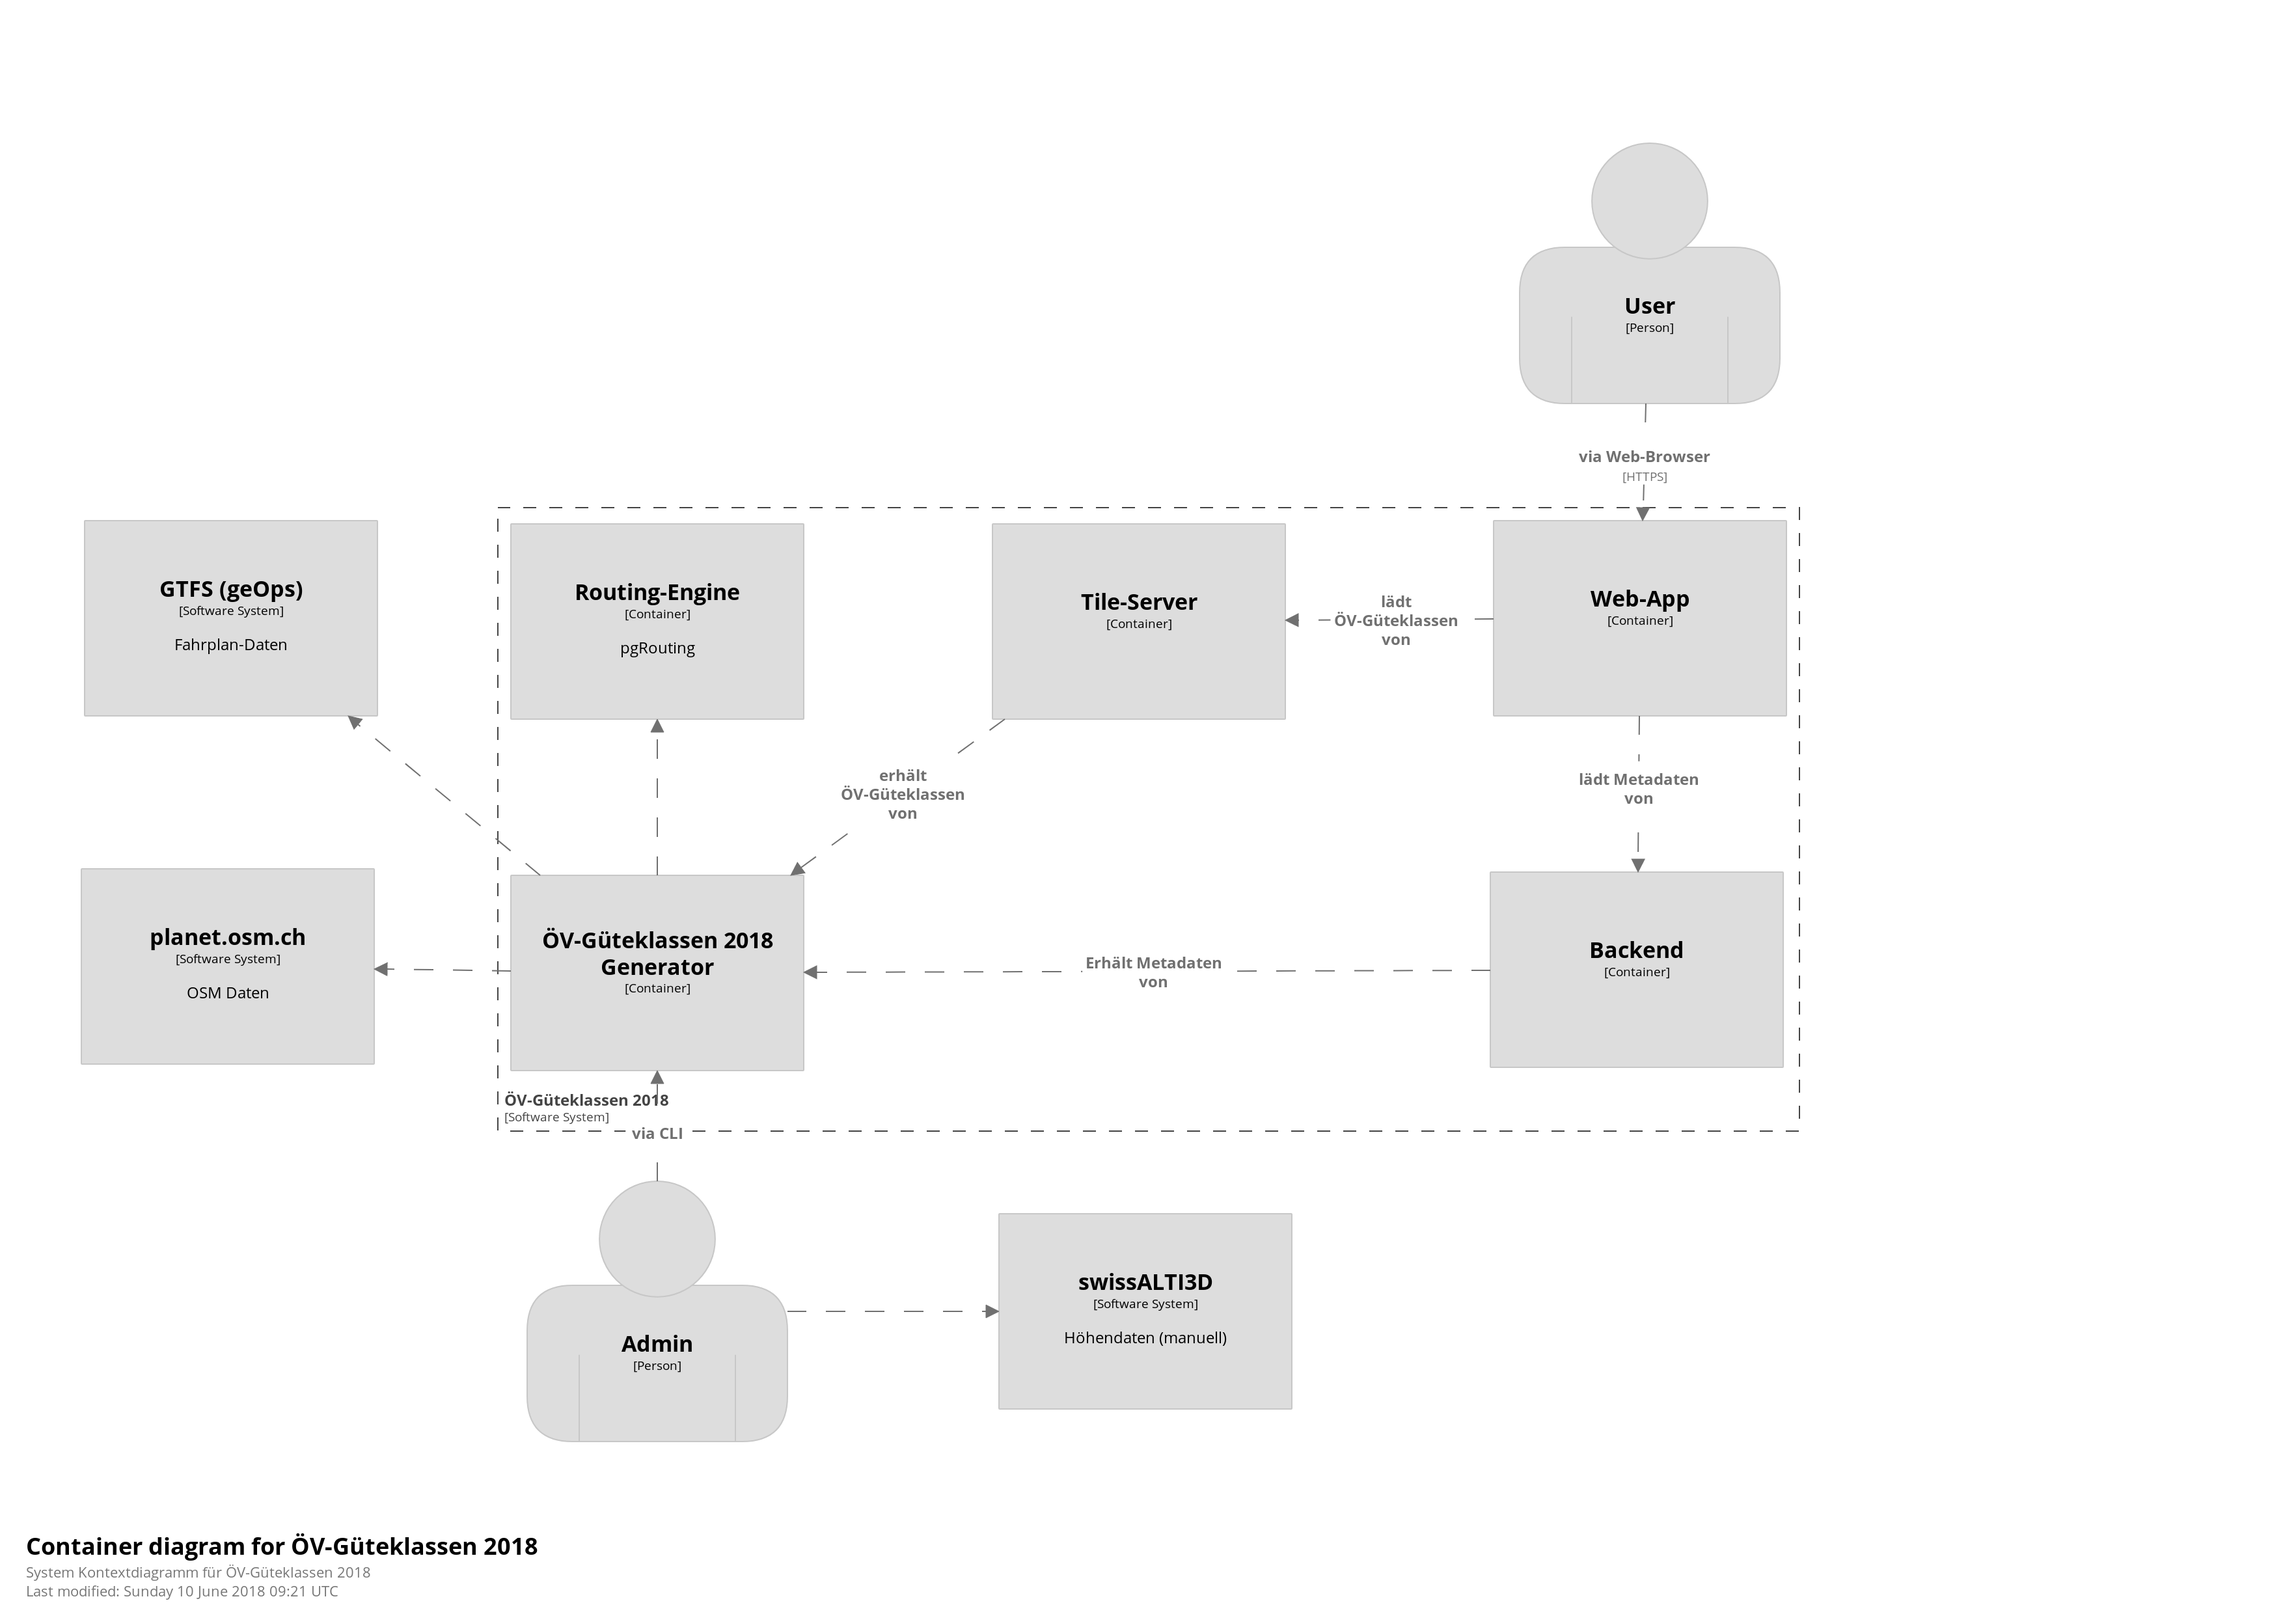
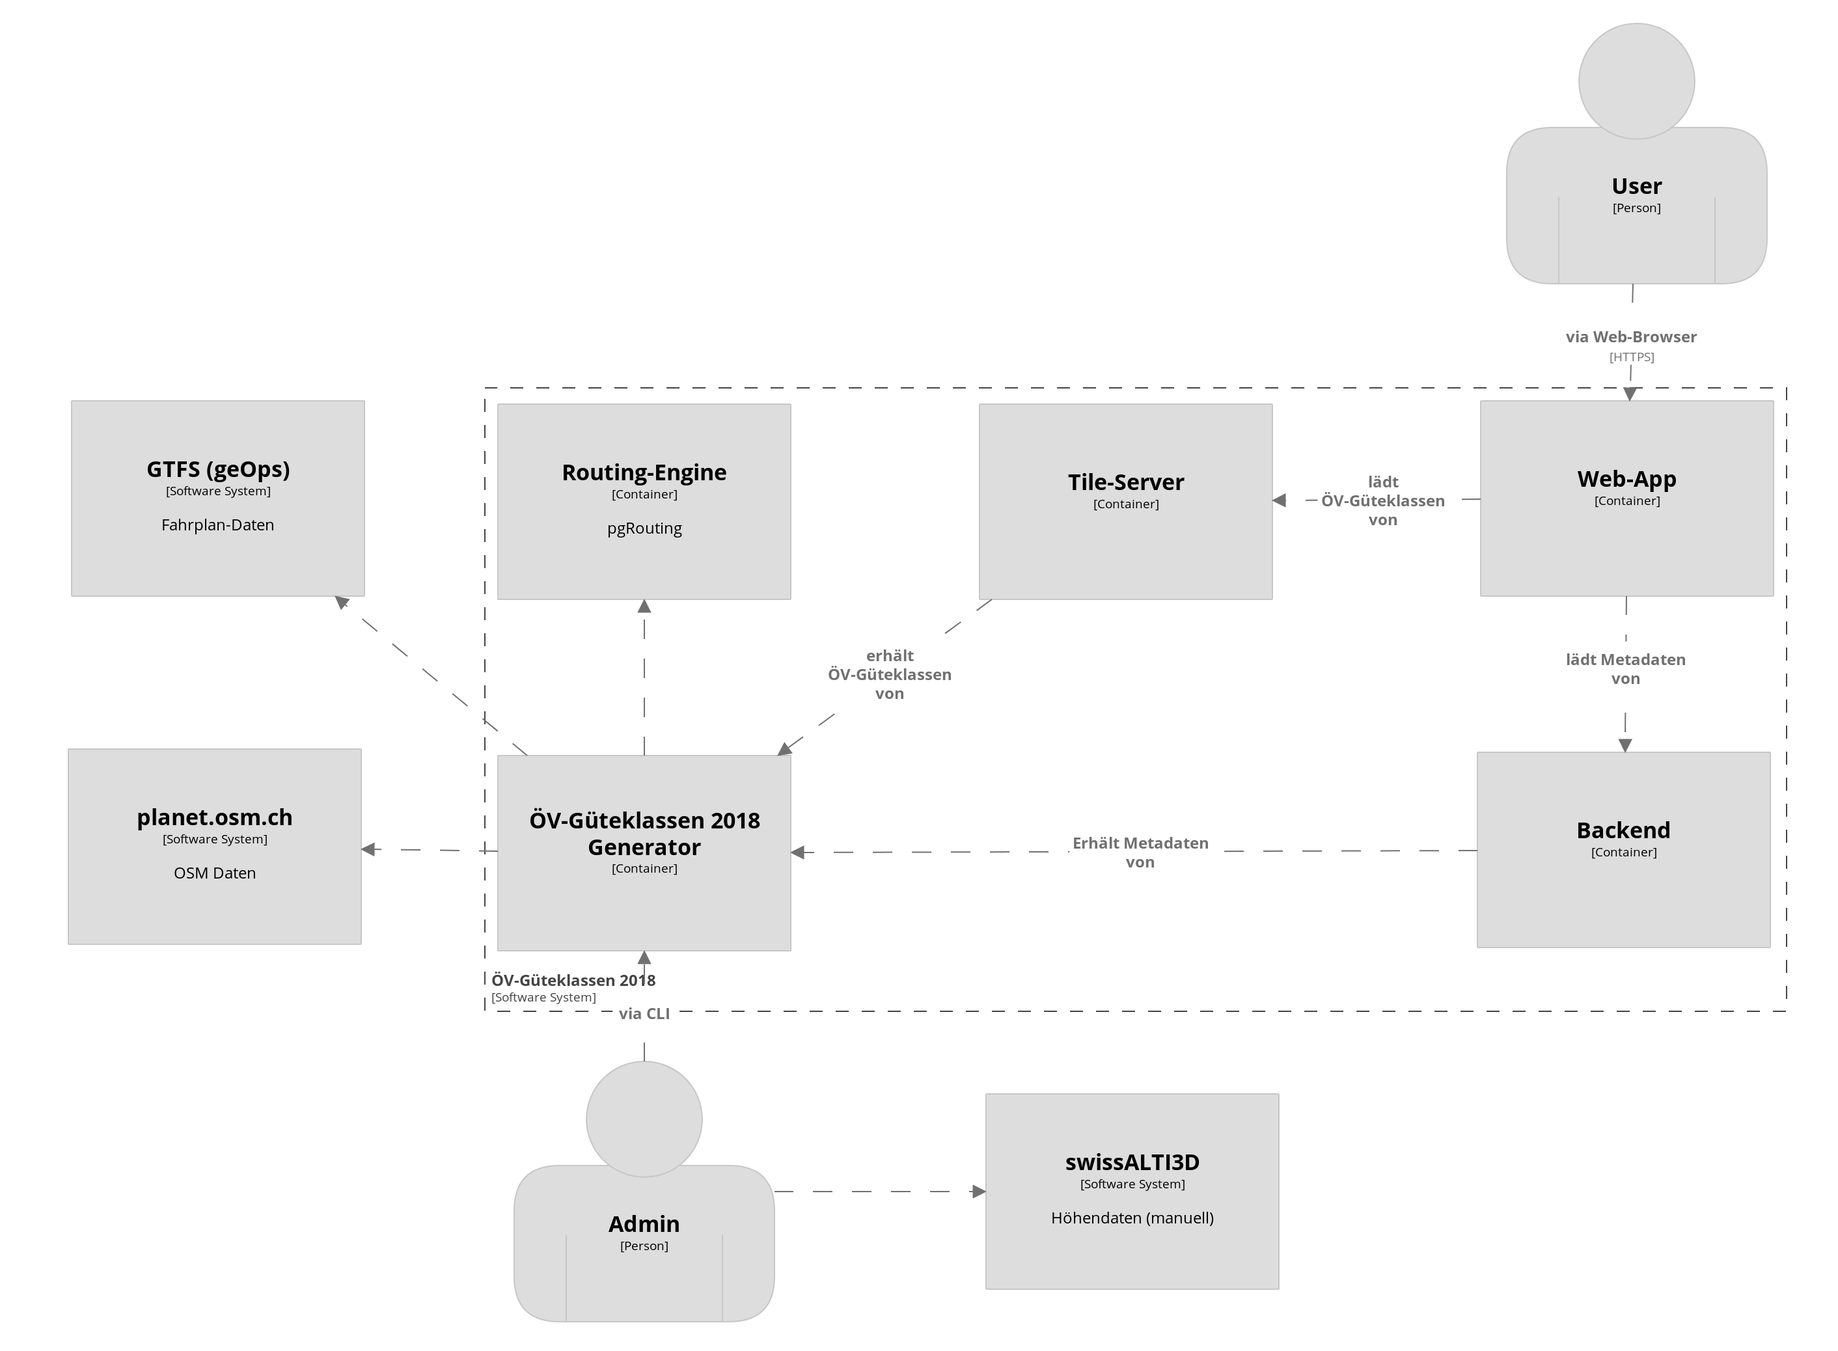
update architecture

diff --git a/projectdoc/architektur.tex b/projectdoc/architektur.tex
@@ -26,17 +26,18 @@ Im Folgenden werden die Umsysteme sowie die Beziehungen zu unserem System "`ÖV-
 \subsubsection{swissALTI$^{3D}$}
 \label{subsystem:swissALTI3D}
 
-Als \gls{Terrainmodell} wird swissALTI$^{3D}$, ein Produkt von swisstopo~\cite{swissalti3d_swisstopo}, verwendet.
-Dieses wird manuell vom Admin bezogen, da der Datensatz mit ca. 120GB für ein Download über das Web-\ac{API} zu gross ist und da die Daten keinem stetigem Wandel unterstellt sind.
-Diese werden von swisstopo~\cite{swissalti3d_swisstopo} in einem Nachführungszyklus von 6 Jahren aktualisiert.
+Als \gls{Terrainmodell} wird swissALTI$^{3D}$, ein Produkt von Swisstopo~\cite{swissalti3d_swisstopo}, verwendet.
+Dieses wird aus lizenztechnischen Gründen manuell vom Admin bezogen.
+Ebenfalls sind die Daten keinem stetigem Wandel unterstellt.
+Sie werden von Swisstopo~\cite{swissalti3d_swisstopo} in einem Nachführungszyklus von 6 Jahren aktualisiert.
 
 Das \gls{Terrainmodell} wird anschliessend in die Routing-Engine integriert, wo die Höhenunterschiede für die Kostenberechnung einer Route verwendet werden können.
 
 \subsubsection{GTFS}
 \label{subsystem:GTFS}
 
-Die Fahrplandaten werden von der SBB regelmässig im HAFAS-Format publiziert.~\cite{sbb_hafas_spec}
-Diese werden von geOps~\cite{geops_fahrplandaten} in das offene und einfacher handhabbare Format \ac{GTFS}~\cite{gtfs_spec} konvertiert und kostenfrei publiziert.~\cite{geops_fahrplandaten}
+Die Fahrplandaten werden von der SBB regelmässig im HAFAS-Format~\cite{sbb_hafas_spec} publiziert.
+geOps~\cite{geops_fahrplandaten} konvertiert diese in das offene und einfacher handhabbare Format \ac{GTFS}~\cite{gtfs_spec} und publiziert die Daten kostenfrei.
 Diese können im CSV-Format für eine Speicherung in einer relationalen Datenbank bezogen werden.
 Das Datenmodell ist in Abbildung \ref{fig:GTFS_data_model} ersichtlich.
 
@@ -69,7 +70,6 @@ Im Folgenden werden die einzelnen Container genauer beschrieben.
     \caption[Containerdiagramm]{Containerdiagramm ÖV-Güteklassen 2018}
     \label{fig:container-diagram}
 \end{figure}
-% TODO: Use Express export instead of a screenshot
 
 \subsubsection{ÖV-Güteklassen 2018 Generator}
 \label{container:generator}
@@ -106,14 +106,14 @@ Hier wird die Berechnung der \acs{ÖV}-Güteklassen koordiniert.
 So wird die Konfiguration des Users entgegen genommen und die nötigen Vorverarbeitungen und Berechnungen angestossen.
 Durch die Natur der Berechnungslogik (siehe Abbildung \ref{fig:Flow_OeVGK_Brechnung}) lässt sich die Logik analog strukturieren.
 Dabei wird die Haltestellekategorie, welche sich aus der Art des VerkehrsmittelS und dem Kursintervall zusammensetzt, über den Service \emph{StopCategoryCalculator} berechnet.
-Die \acs{ÖV}-Güteklassen lassen sich in einem weiteren Schritt mithilfe des \emph{StopGradeCalculator} berechnen.
+Die \acs{ÖV}-Güteklassen lassen sich in einem weiteren Schritt mithilfe des \emph{TransportGroupRetriever} und \emph{StopGradeCalculator} berechnen.
 \emph{QualityGradesCalculator} übernimmt hier die Koordination der Berechnung.
 
 \paragraph{integration}~\\
 \label{layer:integration}
 Alle Datenbankzugriffe erfolgen über die Integration-Schicht.
 Es ist bewusst kein \acl{ORM} angedacht.
-Dies aus dem Grund, da intensiv mit StoredProcedures gearbeitet wird und vorallem Berechnungen auf der Datenbank durchgeführt werden und somit die Tabellen keine Objekte repräsentieren.
+Dies aus dem Grund, da intensiv mit StoredProcedures gearbeitet wird und vorallem Berechnungen auf der Datenbank durchgeführt werden und nicht direkt ein Datenmodell existiert, welches im Generator verwendet und in der Datenbank persistiert wird.
 
 \paragraph{ui}~\\
 \label{layer:ui}
@@ -142,7 +142,7 @@ Das Web-\ac{API} exponiert somit die Information über welche Stichtage und Zeit
 Dies aus dem Grund, da diese Dateien eine Grösse haben, welche eine Auslieferung über ein Web-\ac{API} nicht zumutbar machen.
 Für die Visualisierung auf einer Karte eignen sich andere Varianten, welche in den Container \nameref{container:Web-App} und \nameref{container:Tile-Server} angesprochen werden.
 
-\paragraph{Web-\ac{API}}
+\paragraph{Web-\ac{API}}~\\
 Die Services, welche über das Web-\ac{API} exponiert werden, sind in Tabelle \ref{table:Wep-API} aufgeführt.
 
 \begin{table}[H]
@@ -170,17 +170,16 @@ Die Services, welche über das Web-\ac{API} exponiert werden, sind in Tabelle \r
 
 Die Web-App dient als Frontend des Systems "`\acs{ÖV}-Güteklassen 2018"'.
 Die Applikation wird als \ac{SPA} direkt an den Browser des Users ausgeliefert.
-Die Web-App nutzt das \ac{API} des \nameref{container:Backend}-Containers für das Beziehen von Metadaten, welche die verfügbaren ÖV-Güteklassen beschreiben.
+Die Web-App nutzt das Web-\ac{API} des \nameref{container:Backend}-Containers für das Beziehen von Metadaten, welche die verfügbaren ÖV-Güteklassen beschreiben.
 Mithilfe der Metadaten können die ÖV-Güteklassen vom Container \nameref{container:Tile-Server} bezogen und visualisiert werden.
 
-Dafür wird, wie in den Rahmenbedingungen (Kap. \ref{Einführung:Rahmenbedingungen, Umfeld, Definitionen, Abgrenzungen}) festgehalten, entweder \emph{Vue.js}~\cite{vuejs} oder \emph{React}~\cite{react} verwendet.
-Die beiden Varianten wurden im Kapitel \ref{Analyse:Evaluation Frontend-Framework} evaluiert.
+Dafür wird, wie in der Evaluation (siehe Kapitel \ref{Analyse:Evaluation Frontend-Framework}) festgehalten, \emph{React}~\cite{react} eingesetzt.
 
 \subsubsection{Tile-Server}
 \label{container:Tile-Server}
 
 Der Tile-Server ist ein wichtiger Container, welche vom Web-App genutzt wird.
-Durch diesen und die damit verbundenen Verwendung von Vector-Tiles~\cite{geometalab_vectortiles} wird eine enorme Performanzsteigerung und somit eine bessere Usability erreicht.
+Durch diesen und die damit verbundenen Verwendung von Vector Tiles~\cite{geometalab_vectortiles} wird eine enorme Performanzsteigerung und somit eine bessere Usability erreicht.
 Der Tile-Server war in einer ersten Version nicht angedacht.
 In einer ersten Version hat die Web-App die \acs{ÖV}-Güteklassen direkt als GeoJSON vom Backend bezogen.
 Dies war auf zwei Ebenen problematisch.
@@ -189,23 +188,17 @@ Das GeoJSON für die \acs{ÖV}-Güteklassen 2018 am Stichtag 13.11.2018 tagsübe
 Dieses muss in voller Grösse geladen werden und das für jeden verfügbaren Stichtag, welcher ein Benutzer auswählt.
 Die Visualisierung des GeoJSON in dieser Grössenordnung ist extrem unflüssig und man wartet beim Verschieben der Karten mehrere Sekunden auf die Darstellung der \acs{ÖV}-Güteklassen.
 
-Diese Problematik ist mit der Verwendung von Vector-Tiles und einem Tile-Server obsolet.
+Diese Problematik ist mit der Verwendung von Vector Tiles und einem Tile-Server obsolet.
 Der Tile-Server liefert genau die Daten aus, welcher der Benutzer gerade betrachten möchte.
 Liegt der Fokus beispielsweise auf Rapperswil-Jona, werden die \acs{ÖV}-Güteklassen in diesem Gebiet geladen und nicht für die ganze Schweiz.
 Die \acs{ÖV}-Güteklassen werden einfach gesagt gekachelt, was das Ausliefern eines Auszugs der Daten möglich macht.
-Je nach Zoom-Stufe ist es möglich darzustellende Features zusammenzufassen, weniger oder mehr Detail in die Darstellung zu bringen und kann somit die zu ladende Grösse der Vector-Tiles und somit die Antwortzeit vom Server optimieren.
+Je nach Zoomstufe ist es möglich darzustellende Features zusammenzufassen, weniger oder mehr Detail in die Darstellung zu bringen und kann somit die zu ladende Grösse der Vector Tiles und somit die Antwortzeit vom Server optimieren.
 
 \subsubsection{Routing-Engine}
 \label{container:Routing-Engine}
 
-Die Routing-Engine ist für die Berechnung von Isolinien verantwortlich.
-Dazu werden zuerst periodisch die Kartendaten von \nameref{subsystem:planet.osm.ch} eingelesen und zusammen mit dem \gls{Terrainmodell} von \nameref{subsystem:swissALTI3D}, das zuvor vom Admin manuell besorgt wurde, eine Routing-Topologie erstellt.
+Die Routing-Engine ist für die Berechnung von \glspl{Isochrone} verantwortlich.
+Dazu werden zuerst die Kartendaten von \nameref{subsystem:planet.osm.ch} eingelesen und zusammen mit dem \gls{Terrainmodell} von \nameref{subsystem:swissALTI3D}, das zuvor vom Admin manuell besorgt wurde, einen Routing-Graphen erstellt.
 
-Sobald der Admin die Berechnung der ÖV-Güteklassen auslöst, wird die Routing-Engine vom \nameref{container:generator} nach Isolinien abgefragt, die mit Haltestellen als Startpunkt und einer gewissen Distanz (gewichtet nach Höhenunterschied) berechnet werden.
+Sobald der Admin die Berechnung der ÖV-Güteklassen auslöst, wird die Routing-Engine vom \nameref{container:generator} nach \glspl{Isochrone} abgefragt, die mit Haltestellen als Startpunkt und einer gewissen Distanz berechnet werden.
 Diese Isodistanzen bilden Polygone, die anschliessend vom Generator weiter verarbeitet werden.
-
-
-\subsection{Code}
-\label{Architektur:Code}
-
-%TODO vlt. auf anderes Kapitel verweisen
